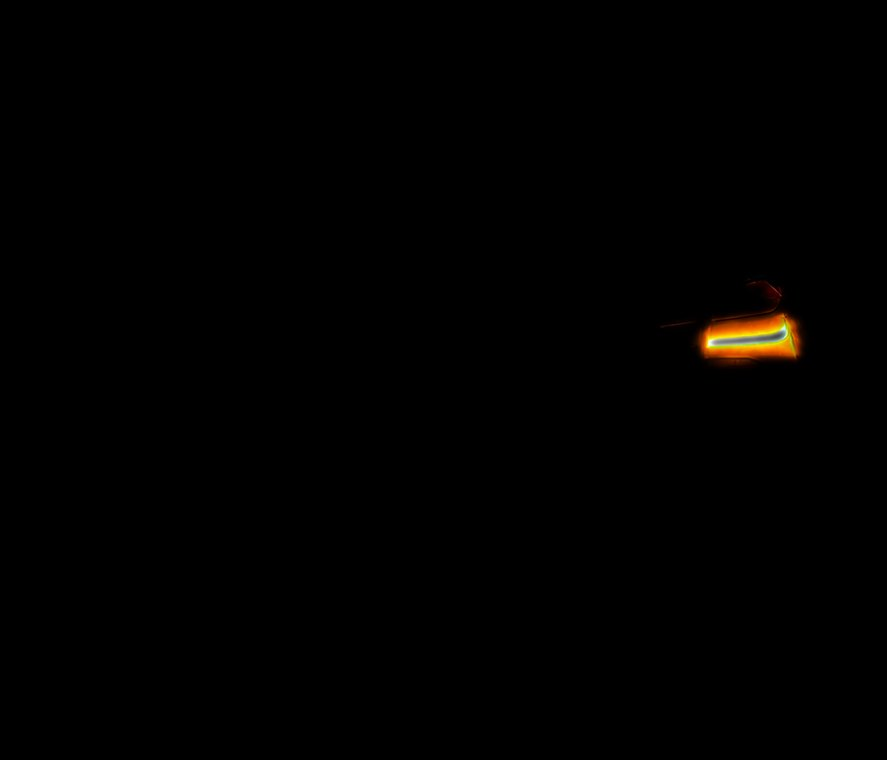
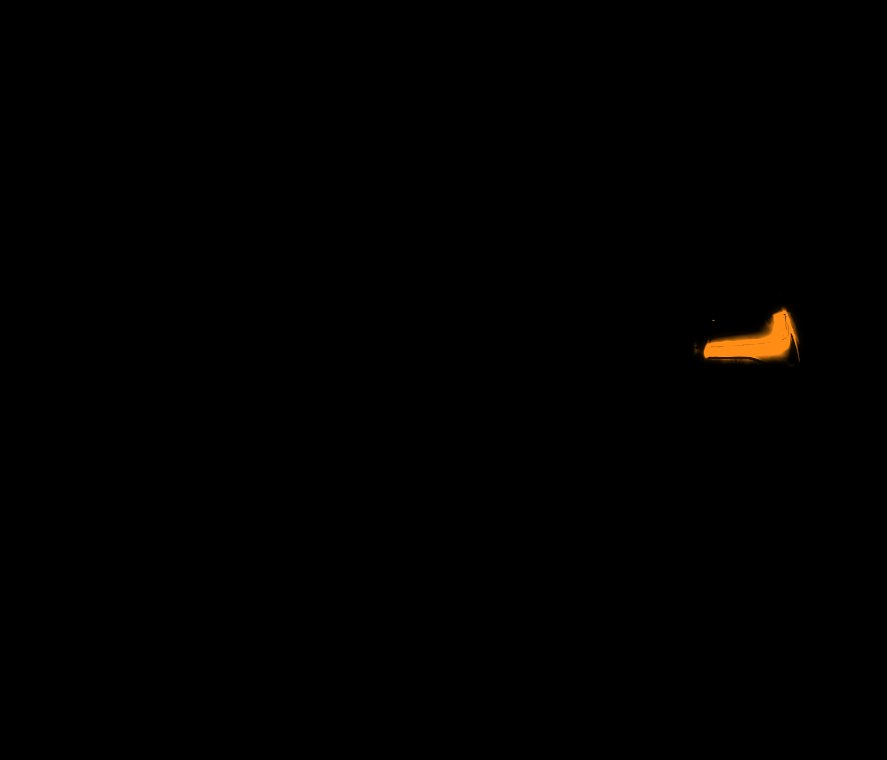
Clignotants, warning, recul et intérieur mieux intégrés

Changed region(s): [[0.761, 0.3632, 0.9132, 0.4842]]

diff --git a/index.html b/index.html
@@ -5,7 +5,7 @@
 <h1>Tes feux d'origine,<br>ton light show.</h1>
 <p class="lead">Pilote les feux de ta BMW série F depuis ton iPhone ou ton Apple Watch, compose des shows et laisse-les danser sur ta musique. Sans modifier le codage.</p>
 <span class="cta big off">Bientôt sur l'App Store</span><div class="soon">iPhone · Apple Watch · gratuit</div>
-<div class="demo"><div class="stage"><div class="car" role="img" aria-label="Voiture vue de face"><img class="base" src="assets/car/photo-front-off.webp?v=a5b0f169" alt=""><img class="lamp" data-id="f:drl-screenLeft" src="assets/car/photo-front-drl-screenLeft.jpg?v=72bc1099" alt="" decoding="async"><img class="lamp" data-id="f:drl-screenRight" src="assets/car/photo-front-drl-screenRight.jpg?v=9e6c1c24" alt="" decoding="async"><img class="lamp" data-id="f:low-screenLeft" src="assets/car/photo-front-low-screenLeft.jpg?v=83283237" alt="" decoding="async"><img class="lamp" data-id="f:low-screenRight" src="assets/car/photo-front-low-screenRight.jpg?v=8a095258" alt="" decoding="async"><img class="lamp" data-id="f:high-screenLeft" src="assets/car/photo-front-high-screenLeft.jpg?v=64660b8b" alt="" decoding="async"><img class="lamp" data-id="f:high-screenRight" src="assets/car/photo-front-high-screenRight.jpg?v=4de06d04" alt="" decoding="async"><img class="lamp" data-id="f:fog-screenLeft" src="assets/car/photo-front-fog-screenLeft.jpg?v=b853a492" alt="" decoding="async"><img class="lamp" data-id="f:fog-screenRight" src="assets/car/photo-front-fog-screenRight.jpg?v=548866b0" alt="" decoding="async"><img class="lamp" data-id="f:indicator-screenLeft" src="assets/car/photo-front-indicator-screenLeft.jpg?v=9acfd933" alt="" decoding="async"><img class="lamp" data-id="f:indicator-screenRight" src="assets/car/photo-front-indicator-screenRight.jpg?v=165abdf5" alt="" decoding="async"><img class="lamp" data-id="f:interior" src="assets/car/photo-front-interior.jpg?v=b5b0edce" alt="" decoding="async"></div><div class="car" role="img" aria-label="Voiture vue de dos"><img class="base" src="assets/car/photo-rear-off.webp?v=ff8c7cd8" alt=""><img class="lamp" data-id="r:tail-screenLeft" src="assets/car/photo-rear-tail-screenLeft.jpg?v=e7f3bf3d" alt="" decoding="async"><img class="lamp" data-id="r:tail-screenRight" src="assets/car/photo-rear-tail-screenRight.jpg?v=f12be747" alt="" decoding="async"><img class="lamp" data-id="r:indicator-screenLeft" src="assets/car/photo-rear-indicator-screenLeft.jpg?v=14cddb7d" alt="" decoding="async"><img class="lamp" data-id="r:indicator-screenRight" src="assets/car/photo-rear-indicator-screenRight.jpg?v=b0662880" alt="" decoding="async"><img class="lamp" data-id="r:reverse-screenLeft" src="assets/car/photo-rear-reverse-screenLeft.jpg?v=d0878755" alt="" decoding="async"><img class="lamp" data-id="r:reverse-screenRight" src="assets/car/photo-rear-reverse-screenRight.jpg?v=23de72f7" alt="" decoding="async"><img class="lamp" data-id="r:brake" src="assets/car/photo-rear-brake.jpg?v=8d4208c7" alt="" decoding="async"><img class="lamp" data-id="r:fog" src="assets/car/photo-rear-fog.jpg?v=1d9a133c" alt="" decoding="async"><img class="lamp" data-id="r:interior" src="assets/car/photo-rear-interior.jpg?v=e815d283" alt="" decoding="async"></div><canvas class="fx" aria-hidden="true"></canvas></div><div class="pads"><button class="pbtn" data-l="drl" style="--c:#ffd60a" aria-pressed="false"><span class="pp"><svg viewBox="0 0 32 32" width="26" height="26" fill="none" stroke="currentColor" stroke-width="2.4" stroke-linecap="round" stroke-linejoin="round"><path d="M19 6c5.5 0 9 4.5 9 10s-3.5 10-9 10z" fill="currentColor"/><path d="M14 8.5 9.5 6M14 13 8.5 12M14 19 8.5 20M14 23.5 9.5 26"/></svg></span><span class="pl">Feux de jour</span></button><button class="pbtn" data-l="low" style="--c:#0a84ff" aria-pressed="false"><span class="pp"><svg viewBox="0 0 32 32" width="26" height="26" fill="none" stroke="currentColor" stroke-width="2.4" stroke-linecap="round" stroke-linejoin="round"><path d="M19 6c5.5 0 9 4.5 9 10s-3.5 10-9 10z" fill="currentColor"/><path d="M14 9 5 12M14 14.5 5 17.5M14 20 5 23"/></svg></span><span class="pl">Croisement</span></button><button class="pbtn" data-l="high" style="--c:#0a84ff" aria-pressed="false"><span class="pp"><svg viewBox="0 0 32 32" width="26" height="26" fill="none" stroke="currentColor" stroke-width="2.4" stroke-linecap="round" stroke-linejoin="round"><path d="M19 6c5.5 0 9 4.5 9 10s-3.5 10-9 10z" fill="currentColor"/><path d="M14 10H4M14 16H4M14 22H4"/></svg></span><span class="pl">Route</span></button><button class="pbtn" data-l="fog" style="--c:#ffd60a" aria-pressed="false"><span class="pp"><svg viewBox="0 0 32 32" width="26" height="26" fill="none" stroke="currentColor" stroke-width="2.4" stroke-linecap="round" stroke-linejoin="round"><path d="M19 6c5.5 0 9 4.5 9 10s-3.5 10-9 10z" fill="currentColor"/><path d="M14 10 4 12M14 16 4 18M14 22 4 24"/><path d="M9.5 6q2.5 3 0 6t0 6 0 6 0 6" stroke-width="2"/></svg></span><span class="pl">Antibrouillard</span></button><button class="pbtn" data-l="indL" style="--c:#ff9f0a" aria-pressed="false"><span class="pp"><svg viewBox="0 0 32 32" width="26" height="26" fill="none" stroke="currentColor" stroke-width="2.4" stroke-linecap="round" stroke-linejoin="round"><path d="M4 16 14 6v6h14v8H14v6z" fill="currentColor"/></svg></span><span class="pl">Clignotant G</span></button><button class="pbtn" data-l="indR" style="--c:#ff9f0a" aria-pressed="false"><span class="pp"><span style="display:inline-flex;transform:scaleX(-1)"><svg viewBox="0 0 32 32" width="26" height="26" fill="none" stroke="currentColor" stroke-width="2.4" stroke-linecap="round" stroke-linejoin="round"><path d="M4 16 14 6v6h14v8H14v6z" fill="currentColor"/></svg></span></span><span class="pl">Clignotant D</span></button><button class="pbtn" data-l="hazard" style="--c:#ff9f0a" aria-pressed="false"><span class="pp"><svg viewBox="0 0 32 32" width="26" height="26" fill="none" stroke="currentColor" stroke-width="2.4" stroke-linecap="round" stroke-linejoin="round"><path d="M16 3.5 29 27H3z"/><path d="M16 12.5 22.2 23H9.8z"/></svg></span><span class="pl">Warning</span></button><button class="pbtn" data-l="tail" style="--c:#ff453a" aria-pressed="false"><span class="pp"><svg viewBox="0 0 32 32" width="26" height="26" fill="none" stroke="currentColor" stroke-width="2.4" stroke-linecap="round" stroke-linejoin="round"><rect x="4" y="10" width="24" height="12" rx="4"/><rect x="8" y="14" width="16" height="4" rx="2" fill="currentColor"/></svg></span><span class="pl">Feux arrière</span></button><button class="pbtn" data-l="brake" style="--c:#ff453a" aria-pressed="false"><span class="pp"><svg viewBox="0 0 32 32" width="26" height="26" fill="none" stroke="currentColor" stroke-width="2.4" stroke-linecap="round" stroke-linejoin="round"><rect x="4" y="11" width="24" height="12" rx="4" fill="currentColor"/><path d="M9 6.5 7.5 4M16 6V3M23 6.5 24.5 4"/></svg></span><span class="pl">Stop</span></button><button class="pbtn" data-l="reverse" style="--c:#aeaeb2" aria-pressed="false"><span class="pp"><svg viewBox="0 0 32 32" width="26" height="26" fill="none" stroke="currentColor" stroke-width="2.4" stroke-linecap="round" stroke-linejoin="round"><rect x="5" y="5" width="22" height="22" rx="6"/><path d="M12.5 22.5v-13h5a3.8 3.8 0 0 1 0 7.6h-5M17.5 17l3.5 5.5" stroke-width="2.6"/></svg></span><span class="pl">Recul</span></button><button class="pbtn" data-l="inside" style="--c:#bfd9ff" aria-pressed="false"><span class="pp"><svg viewBox="0 0 32 32" width="26" height="26" fill="none" stroke="currentColor" stroke-width="2.4" stroke-linecap="round" stroke-linejoin="round"><path d="M5 9h22"/><path d="M9 9.5h14a7 7 0 0 1-14 0z" fill="currentColor"/><path d="M16 21v5M10 19.5l-2.5 4M22 19.5l2.5 4"/></svg></span><span class="pl">Intérieur</span></button><div class="showrow"><div class="sh">Shows</div><div class="shpads"><button class="pbtn" data-show="pulsation" style="--c:#ff9f0a" aria-pressed="false"><span class="pp"><svg viewBox="0 0 32 32" width="28" height="28" fill="none" stroke="currentColor" stroke-width="2.4" stroke-linecap="round" stroke-linejoin="round"><path d="M3 16h6l3-7 4.5 15 3.5-10 2 2h7"/></svg></span><span class="pl">Pulsation</span></button><button class="pbtn" data-show="double" style="--c:#0a84ff" aria-pressed="false"><span class="pp"><svg viewBox="0 0 32 32" width="28" height="28" fill="none" stroke="currentColor" stroke-width="2.4" stroke-linecap="round" stroke-linejoin="round"><path d="M11 7l-5 9h4.5l-1.5 7 5.5-9.5h-4.5z" fill="currentColor"/><path d="M21 7l-5 9h4.5l-1.5 7 5.5-9.5h-4.5z" fill="currentColor"/></svg></span><span class="pl">Double flash</span></button><button class="pbtn" data-show="bienvenue" style="--c:#30d158" aria-pressed="false"><span class="pp"><svg viewBox="0 0 32 32" width="28" height="28" fill="none" stroke="currentColor" stroke-width="2.4" stroke-linecap="round" stroke-linejoin="round"><path d="M5 22v-6l3-6h16l3 6v6z"/><circle cx="10" cy="17" r="2" fill="currentColor"/><circle cx="22" cy="17" r="2" fill="currentColor"/><path d="M6.5 22v3M25.5 22v3M16 2v3M10 4l1.5 2M22 4l-1.5 2"/></svg></span><span class="pl">Bienvenue</span></button><button class="pbtn" data-show="hante" data-theme-only="halloween" style="--c:#ff7a00" aria-pressed="false" hidden><span class="pp"><svg viewBox="0 0 32 32" width="28" height="28" fill="none" stroke="currentColor" stroke-width="2.4" stroke-linejoin="round"><path d="M7 28V14a9 9 0 0 1 18 0v14l-3-2.5-3 2.5-3-2.5-3 2.5-3-2.5z" fill="currentColor" fill-opacity=".25"/><circle cx="12.5" cy="14" r="1.8" fill="currentColor"/><circle cx="19.5" cy="14" r="1.8" fill="currentColor"/></svg></span><span class="pl">Hanté</span></button><button class="pbtn" data-show="guirlande" data-theme-only="noel" style="--c:#ff453a" aria-pressed="false" hidden><span class="pp"><svg viewBox="0 0 32 32" width="28" height="28" fill="currentColor"><path d="M16 3l2.6 7.4L26 13l-7.4 2.6L16 23l-2.6-7.4L6 13l7.4-2.6z"/><path d="M25 19l1.2 3.3 3.3 1.2-3.3 1.2L25 28l-1.2-3.3-3.3-1.2 3.3-1.2z"/><path d="M7 20l.9 2.4 2.4.9-2.4.9L7 26.6l-.9-2.4-2.4-.9 2.4-.9z"/></svg></span><span class="pl">Guirlande</span></button><button class="pbtn" data-show="ruban" data-theme-only="octobre-rose" style="--c:#ff3796" aria-pressed="false" hidden><span class="pp"><svg viewBox="0 0 32 32" width="28" height="28" fill="none" stroke="currentColor" stroke-width="2.6" stroke-linecap="round" stroke-linejoin="round"><path d="M12 29l7-12c2-3.5 2.5-6 1-8.5a4.6 4.6 0 0 0-8 0c-1.5 2.5-1 5 1 8.5l7 12"/></svg></span><span class="pl">Ruban</span></button><button class="pbtn" data-show="printemps" data-theme-only="paques" style="--c:#ff96be" aria-pressed="false" hidden><span class="pp"><svg viewBox="0 0 32 32" width="28" height="28" fill="currentColor"><ellipse cx="16" cy="9.5" rx="4.2" ry="6" transform="rotate(0 16 16)"/><ellipse cx="16" cy="9.5" rx="4.2" ry="6" transform="rotate(72 16 16)"/><ellipse cx="16" cy="9.5" rx="4.2" ry="6" transform="rotate(144 16 16)"/><ellipse cx="16" cy="9.5" rx="4.2" ry="6" transform="rotate(216 16 16)"/><ellipse cx="16" cy="9.5" rx="4.2" ry="6" transform="rotate(288 16 16)"/><circle cx="16" cy="16" r="3.2" fill="#1c1c1e"/></svg></span><span class="pl">Printemps</span></button><button class="pbtn" data-show="compte" data-theme-only="nouvel-an" style="--c:#ffc43c" aria-pressed="false" hidden><span class="pp"><svg viewBox="0 0 32 32" width="28" height="28" fill="none" stroke="currentColor" stroke-width="2.4" stroke-linecap="round"><circle cx="16" cy="17" r="11"/><path d="M16 11v6l4 3M13 3h6"/><path d="M26 7l2-2"/></svg></span><span class="pl">Compte à rebours</span></button></div><button class="pbtn showbtn" data-show="mix" style="--c:#bf5af2" aria-pressed="false"><span class="pp"><svg viewBox="0 0 32 32" width="22" height="22" fill="none" stroke="currentColor" stroke-width="2.4" stroke-linecap="round" stroke-linejoin="round"><path d="M3 16h6l3-7 4.5 15 3.5-10 2 2h7"/></svg></span><span class="pl">Lancer un show</span></button><div class="shmore">+ 10 autres shows dans l'app, et ils suivent ta musique.</div></div></div><div class="hint">Touche une pastille : les feux s'allument comme dans l'app.</div></div></div></div>
+<div class="demo"><div class="stage"><div class="car" role="img" aria-label="Voiture vue de face"><img class="base" src="assets/car/photo-front-off.webp?v=a5b0f169" alt=""><img class="lamp" data-id="f:drl-screenLeft" src="assets/car/photo-front-drl-screenLeft.jpg?v=72bc1099" alt="" decoding="async"><img class="lamp" data-id="f:drl-screenRight" src="assets/car/photo-front-drl-screenRight.jpg?v=9e6c1c24" alt="" decoding="async"><img class="lamp" data-id="f:low-screenLeft" src="assets/car/photo-front-low-screenLeft.jpg?v=83283237" alt="" decoding="async"><img class="lamp" data-id="f:low-screenRight" src="assets/car/photo-front-low-screenRight.jpg?v=8a095258" alt="" decoding="async"><img class="lamp" data-id="f:high-screenLeft" src="assets/car/photo-front-high-screenLeft.jpg?v=64660b8b" alt="" decoding="async"><img class="lamp" data-id="f:high-screenRight" src="assets/car/photo-front-high-screenRight.jpg?v=4de06d04" alt="" decoding="async"><img class="lamp" data-id="f:fog-screenLeft" src="assets/car/photo-front-fog-screenLeft.jpg?v=b853a492" alt="" decoding="async"><img class="lamp" data-id="f:fog-screenRight" src="assets/car/photo-front-fog-screenRight.jpg?v=548866b0" alt="" decoding="async"><img class="lamp" data-id="f:indicator-screenLeft" src="assets/car/photo-front-indicator-screenLeft.jpg?v=72b0d146" alt="" decoding="async"><img class="lamp" data-id="f:indicator-screenRight" src="assets/car/photo-front-indicator-screenRight.jpg?v=b08e6cd4" alt="" decoding="async"><img class="lamp" data-id="f:interior" src="assets/car/photo-front-interior.jpg?v=55bd01a7" alt="" decoding="async"></div><div class="car" role="img" aria-label="Voiture vue de dos"><img class="base" src="assets/car/photo-rear-off.webp?v=ff8c7cd8" alt=""><img class="lamp" data-id="r:tail-screenLeft" src="assets/car/photo-rear-tail-screenLeft.jpg?v=e7f3bf3d" alt="" decoding="async"><img class="lamp" data-id="r:tail-screenRight" src="assets/car/photo-rear-tail-screenRight.jpg?v=f12be747" alt="" decoding="async"><img class="lamp" data-id="r:indicator-screenLeft" src="assets/car/photo-rear-indicator-screenLeft.jpg?v=801bcd83" alt="" decoding="async"><img class="lamp" data-id="r:indicator-screenRight" src="assets/car/photo-rear-indicator-screenRight.jpg?v=35f259fb" alt="" decoding="async"><img class="lamp" data-id="r:reverse-screenLeft" src="assets/car/photo-rear-reverse-screenLeft.jpg?v=c3c540be" alt="" decoding="async"><img class="lamp" data-id="r:reverse-screenRight" src="assets/car/photo-rear-reverse-screenRight.jpg?v=d636bf31" alt="" decoding="async"><img class="lamp" data-id="r:brake" src="assets/car/photo-rear-brake.jpg?v=8d4208c7" alt="" decoding="async"><img class="lamp" data-id="r:fog" src="assets/car/photo-rear-fog.jpg?v=1d9a133c" alt="" decoding="async"><img class="lamp" data-id="r:interior" src="assets/car/photo-rear-interior.jpg?v=846085b4" alt="" decoding="async"></div><canvas class="fx" aria-hidden="true"></canvas></div><div class="pads"><button class="pbtn" data-l="drl" style="--c:#ffd60a" aria-pressed="false"><span class="pp"><svg viewBox="0 0 32 32" width="26" height="26" fill="none" stroke="currentColor" stroke-width="2.4" stroke-linecap="round" stroke-linejoin="round"><path d="M19 6c5.5 0 9 4.5 9 10s-3.5 10-9 10z" fill="currentColor"/><path d="M14 8.5 9.5 6M14 13 8.5 12M14 19 8.5 20M14 23.5 9.5 26"/></svg></span><span class="pl">Feux de jour</span></button><button class="pbtn" data-l="low" style="--c:#0a84ff" aria-pressed="false"><span class="pp"><svg viewBox="0 0 32 32" width="26" height="26" fill="none" stroke="currentColor" stroke-width="2.4" stroke-linecap="round" stroke-linejoin="round"><path d="M19 6c5.5 0 9 4.5 9 10s-3.5 10-9 10z" fill="currentColor"/><path d="M14 9 5 12M14 14.5 5 17.5M14 20 5 23"/></svg></span><span class="pl">Croisement</span></button><button class="pbtn" data-l="high" style="--c:#0a84ff" aria-pressed="false"><span class="pp"><svg viewBox="0 0 32 32" width="26" height="26" fill="none" stroke="currentColor" stroke-width="2.4" stroke-linecap="round" stroke-linejoin="round"><path d="M19 6c5.5 0 9 4.5 9 10s-3.5 10-9 10z" fill="currentColor"/><path d="M14 10H4M14 16H4M14 22H4"/></svg></span><span class="pl">Route</span></button><button class="pbtn" data-l="fog" style="--c:#ffd60a" aria-pressed="false"><span class="pp"><svg viewBox="0 0 32 32" width="26" height="26" fill="none" stroke="currentColor" stroke-width="2.4" stroke-linecap="round" stroke-linejoin="round"><path d="M19 6c5.5 0 9 4.5 9 10s-3.5 10-9 10z" fill="currentColor"/><path d="M14 10 4 12M14 16 4 18M14 22 4 24"/><path d="M9.5 6q2.5 3 0 6t0 6 0 6 0 6" stroke-width="2"/></svg></span><span class="pl">Antibrouillard</span></button><button class="pbtn" data-l="indL" style="--c:#ff9f0a" aria-pressed="false"><span class="pp"><svg viewBox="0 0 32 32" width="26" height="26" fill="none" stroke="currentColor" stroke-width="2.4" stroke-linecap="round" stroke-linejoin="round"><path d="M4 16 14 6v6h14v8H14v6z" fill="currentColor"/></svg></span><span class="pl">Clignotant G</span></button><button class="pbtn" data-l="indR" style="--c:#ff9f0a" aria-pressed="false"><span class="pp"><span style="display:inline-flex;transform:scaleX(-1)"><svg viewBox="0 0 32 32" width="26" height="26" fill="none" stroke="currentColor" stroke-width="2.4" stroke-linecap="round" stroke-linejoin="round"><path d="M4 16 14 6v6h14v8H14v6z" fill="currentColor"/></svg></span></span><span class="pl">Clignotant D</span></button><button class="pbtn" data-l="hazard" style="--c:#ff9f0a" aria-pressed="false"><span class="pp"><svg viewBox="0 0 32 32" width="26" height="26" fill="none" stroke="currentColor" stroke-width="2.4" stroke-linecap="round" stroke-linejoin="round"><path d="M16 3.5 29 27H3z"/><path d="M16 12.5 22.2 23H9.8z"/></svg></span><span class="pl">Warning</span></button><button class="pbtn" data-l="tail" style="--c:#ff453a" aria-pressed="false"><span class="pp"><svg viewBox="0 0 32 32" width="26" height="26" fill="none" stroke="currentColor" stroke-width="2.4" stroke-linecap="round" stroke-linejoin="round"><rect x="4" y="10" width="24" height="12" rx="4"/><rect x="8" y="14" width="16" height="4" rx="2" fill="currentColor"/></svg></span><span class="pl">Feux arrière</span></button><button class="pbtn" data-l="brake" style="--c:#ff453a" aria-pressed="false"><span class="pp"><svg viewBox="0 0 32 32" width="26" height="26" fill="none" stroke="currentColor" stroke-width="2.4" stroke-linecap="round" stroke-linejoin="round"><rect x="4" y="11" width="24" height="12" rx="4" fill="currentColor"/><path d="M9 6.5 7.5 4M16 6V3M23 6.5 24.5 4"/></svg></span><span class="pl">Stop</span></button><button class="pbtn" data-l="reverse" style="--c:#aeaeb2" aria-pressed="false"><span class="pp"><svg viewBox="0 0 32 32" width="26" height="26" fill="none" stroke="currentColor" stroke-width="2.4" stroke-linecap="round" stroke-linejoin="round"><rect x="5" y="5" width="22" height="22" rx="6"/><path d="M12.5 22.5v-13h5a3.8 3.8 0 0 1 0 7.6h-5M17.5 17l3.5 5.5" stroke-width="2.6"/></svg></span><span class="pl">Recul</span></button><button class="pbtn" data-l="inside" style="--c:#bfd9ff" aria-pressed="false"><span class="pp"><svg viewBox="0 0 32 32" width="26" height="26" fill="none" stroke="currentColor" stroke-width="2.4" stroke-linecap="round" stroke-linejoin="round"><path d="M5 9h22"/><path d="M9 9.5h14a7 7 0 0 1-14 0z" fill="currentColor"/><path d="M16 21v5M10 19.5l-2.5 4M22 19.5l2.5 4"/></svg></span><span class="pl">Intérieur</span></button><div class="showrow"><div class="sh">Shows</div><div class="shpads"><button class="pbtn" data-show="pulsation" style="--c:#ff9f0a" aria-pressed="false"><span class="pp"><svg viewBox="0 0 32 32" width="28" height="28" fill="none" stroke="currentColor" stroke-width="2.4" stroke-linecap="round" stroke-linejoin="round"><path d="M3 16h6l3-7 4.5 15 3.5-10 2 2h7"/></svg></span><span class="pl">Pulsation</span></button><button class="pbtn" data-show="double" style="--c:#0a84ff" aria-pressed="false"><span class="pp"><svg viewBox="0 0 32 32" width="28" height="28" fill="none" stroke="currentColor" stroke-width="2.4" stroke-linecap="round" stroke-linejoin="round"><path d="M11 7l-5 9h4.5l-1.5 7 5.5-9.5h-4.5z" fill="currentColor"/><path d="M21 7l-5 9h4.5l-1.5 7 5.5-9.5h-4.5z" fill="currentColor"/></svg></span><span class="pl">Double flash</span></button><button class="pbtn" data-show="bienvenue" style="--c:#30d158" aria-pressed="false"><span class="pp"><svg viewBox="0 0 32 32" width="28" height="28" fill="none" stroke="currentColor" stroke-width="2.4" stroke-linecap="round" stroke-linejoin="round"><path d="M5 22v-6l3-6h16l3 6v6z"/><circle cx="10" cy="17" r="2" fill="currentColor"/><circle cx="22" cy="17" r="2" fill="currentColor"/><path d="M6.5 22v3M25.5 22v3M16 2v3M10 4l1.5 2M22 4l-1.5 2"/></svg></span><span class="pl">Bienvenue</span></button><button class="pbtn" data-show="hante" data-theme-only="halloween" style="--c:#ff7a00" aria-pressed="false" hidden><span class="pp"><svg viewBox="0 0 32 32" width="28" height="28" fill="none" stroke="currentColor" stroke-width="2.4" stroke-linejoin="round"><path d="M7 28V14a9 9 0 0 1 18 0v14l-3-2.5-3 2.5-3-2.5-3 2.5-3-2.5z" fill="currentColor" fill-opacity=".25"/><circle cx="12.5" cy="14" r="1.8" fill="currentColor"/><circle cx="19.5" cy="14" r="1.8" fill="currentColor"/></svg></span><span class="pl">Hanté</span></button><button class="pbtn" data-show="guirlande" data-theme-only="noel" style="--c:#ff453a" aria-pressed="false" hidden><span class="pp"><svg viewBox="0 0 32 32" width="28" height="28" fill="currentColor"><path d="M16 3l2.6 7.4L26 13l-7.4 2.6L16 23l-2.6-7.4L6 13l7.4-2.6z"/><path d="M25 19l1.2 3.3 3.3 1.2-3.3 1.2L25 28l-1.2-3.3-3.3-1.2 3.3-1.2z"/><path d="M7 20l.9 2.4 2.4.9-2.4.9L7 26.6l-.9-2.4-2.4-.9 2.4-.9z"/></svg></span><span class="pl">Guirlande</span></button><button class="pbtn" data-show="ruban" data-theme-only="octobre-rose" style="--c:#ff3796" aria-pressed="false" hidden><span class="pp"><svg viewBox="0 0 32 32" width="28" height="28" fill="none" stroke="currentColor" stroke-width="2.6" stroke-linecap="round" stroke-linejoin="round"><path d="M12 29l7-12c2-3.5 2.5-6 1-8.5a4.6 4.6 0 0 0-8 0c-1.5 2.5-1 5 1 8.5l7 12"/></svg></span><span class="pl">Ruban</span></button><button class="pbtn" data-show="printemps" data-theme-only="paques" style="--c:#ff96be" aria-pressed="false" hidden><span class="pp"><svg viewBox="0 0 32 32" width="28" height="28" fill="currentColor"><ellipse cx="16" cy="9.5" rx="4.2" ry="6" transform="rotate(0 16 16)"/><ellipse cx="16" cy="9.5" rx="4.2" ry="6" transform="rotate(72 16 16)"/><ellipse cx="16" cy="9.5" rx="4.2" ry="6" transform="rotate(144 16 16)"/><ellipse cx="16" cy="9.5" rx="4.2" ry="6" transform="rotate(216 16 16)"/><ellipse cx="16" cy="9.5" rx="4.2" ry="6" transform="rotate(288 16 16)"/><circle cx="16" cy="16" r="3.2" fill="#1c1c1e"/></svg></span><span class="pl">Printemps</span></button><button class="pbtn" data-show="compte" data-theme-only="nouvel-an" style="--c:#ffc43c" aria-pressed="false" hidden><span class="pp"><svg viewBox="0 0 32 32" width="28" height="28" fill="none" stroke="currentColor" stroke-width="2.4" stroke-linecap="round"><circle cx="16" cy="17" r="11"/><path d="M16 11v6l4 3M13 3h6"/><path d="M26 7l2-2"/></svg></span><span class="pl">Compte à rebours</span></button></div><button class="pbtn showbtn" data-show="mix" style="--c:#bf5af2" aria-pressed="false"><span class="pp"><svg viewBox="0 0 32 32" width="22" height="22" fill="none" stroke="currentColor" stroke-width="2.4" stroke-linecap="round" stroke-linejoin="round"><path d="M3 16h6l3-7 4.5 15 3.5-10 2 2h7"/></svg></span><span class="pl">Lancer un show</span></button><div class="shmore">+ 10 autres shows dans l'app, et ils suivent ta musique.</div></div></div><div class="hint">Touche une pastille : les feux s'allument comme dans l'app.</div></div></div></div>
 <section><div class="wrap"><h2>Tes feux, ton style.</h2><p class="sub">Pensée pour les passionnés, faite pour briller la nuit.</p><div class="features"><div class="feat"><div class="past" style="width:60px;height:60px;color:#0a84ff;background:radial-gradient(120% 120% at 30% 15%, #0a84ff66, var(--pb) 75%);box-shadow:0 0 0 1.5px #0a84ffb3 inset,0 6px 22px -4px #0a84ff99"><div style="display:flex;filter:drop-shadow(0 0 6px #0a84ff)"><svg viewBox="0 0 32 32" width="30" height="30" fill="none" stroke="#0a84ff" stroke-width="2.4" stroke-linecap="round" stroke-linejoin="round"><path d="M19 6c5.5 0 9 4.5 9 10s-3.5 10-9 10z" fill="#0a84ff"/><path d="M14 9 5 12M14 14.5 5 17.5M14 20 5 23"/></svg></div></div><h3>Tes feux, en direct</h3><p>Croisement, route, antibrouillards, stop, recul, et même l'éclairage intérieur. Touche une pastille, le feu s'allume. Mode « Maintenir » à plusieurs doigts.</p></div><div class="feat"><div class="past" style="width:60px;height:60px;color:#ff375f;background:radial-gradient(120% 120% at 30% 15%, #ff375f66, var(--pb) 75%);box-shadow:0 0 0 1.5px #ff375fb3 inset,0 6px 22px -4px #ff375f99"><div style="display:flex;filter:drop-shadow(0 0 6px #ff375f)"><svg viewBox="0 0 32 32" width="28" height="28" stroke="#ff375f" stroke-width="2.6" stroke-linecap="round"><path d="M4 13v6M9 9v14M14 5v22M19 10v12M24 7v18M28.5 13v6"/></svg></div></div><h3>Show Libre</h3><p>Pas de séquence : chaque feu réagit à ta musique. Les basses font battre les feux arrière, la voix le croisement, et au drop toute la voiture s'embrase. Calme, normal ou déchaîné.</p></div><div class="feat"><div class="past" style="width:60px;height:60px;color:#ff9f0a;background:radial-gradient(120% 120% at 30% 15%, #ff9f0a66, var(--pb) 75%);box-shadow:0 0 0 1.5px #ff9f0ab3 inset,0 6px 22px -4px #ff9f0a99"><div style="display:flex;filter:drop-shadow(0 0 6px #ff9f0a)"><svg viewBox="0 0 32 32" width="30" height="30" fill="none" stroke="#ff9f0a" stroke-width="2.4" stroke-linecap="round" stroke-linejoin="round"><path d="M3 16h6l3-7 4.5 15 3.5-10 2 2h7"/></svg></div></div><h3>17 shows prêts</h3><p>Pulsation, double flash, gyrophare, vague, bienvenue… À suivre au tempo ou sur ta musique, au micro. Et des shows spéciaux pour Halloween et Noël.</p></div><div class="feat"><div class="past" style="width:60px;height:60px;color:#bf5af2;background:radial-gradient(120% 120% at 30% 15%, #bf5af266, var(--pb) 75%);box-shadow:0 0 0 1.5px #bf5af2b3 inset,0 6px 22px -4px #bf5af299"><div style="display:flex;filter:drop-shadow(0 0 6px #bf5af2)"><svg viewBox="0 0 32 32" width="28" height="28" fill="#bf5af2"><rect x="4" y="5" width="6" height="6" rx="1.5"/><rect x="13" y="5" width="6" height="6" rx="1.5" opacity=.35/><rect x="22" y="5" width="6" height="6" rx="1.5"/><rect x="4" y="14" width="6" height="6" rx="1.5" opacity=.35/><rect x="13" y="14" width="6" height="6" rx="1.5"/><rect x="22" y="14" width="6" height="6" rx="1.5" opacity=.35/><rect x="4" y="23" width="6" height="6" rx="1.5"/><rect x="13" y="23" width="6" height="6" rx="1.5" opacity=.35/><rect x="22" y="23" width="6" height="6" rx="1.5"/></svg></div></div><h3>Crée tes shows</h3><p>Une grille feux × pas pour composer tes séquences, ou enregistre en direct ce que tu joues.</p></div><div class="feat"><div class="past" style="width:60px;height:60px;color:#64d2ff;background:radial-gradient(120% 120% at 30% 15%, #64d2ff66, var(--pb) 75%);box-shadow:0 0 0 1.5px #64d2ffb3 inset,0 6px 22px -4px #64d2ff99"><div style="display:flex;filter:drop-shadow(0 0 6px #64d2ff)"><svg viewBox="0 0 32 32" width="28" height="28" fill="none" stroke="#64d2ff" stroke-width="2.4" stroke-linecap="round" stroke-linejoin="round"><rect x="8" y="8" width="16" height="16" rx="5"/><path d="M11 8l1-5h8l1 5M11 24l1 5h8l1-5"/><path d="M16 12.5v4l2.5 1.5"/></svg></div></div><h3>Sur ton Apple Watch</h3><p>Lance le Show Libre, le warning ou un appel de phares depuis ton poignet. La couronne règle l'intensité, Stop toujours sous le doigt.</p></div><div class="feat"><div class="past" style="width:60px;height:60px;color:#ffd60a;background:radial-gradient(120% 120% at 30% 15%, #ffd60a66, var(--pb) 75%);box-shadow:0 0 0 1.5px #ffd60ab3 inset,0 6px 22px -4px #ffd60a99"><div style="display:flex;filter:drop-shadow(0 0 6px #ffd60a)"><svg viewBox="0 0 32 32" width="28" height="28" fill="#ffd60a"><rect x="4" y="4" width="11" height="11" rx="3"/><rect x="17" y="4" width="11" height="11" rx="3" opacity=".45"/><rect x="4" y="17" width="24" height="11" rx="3" opacity=".7"/></svg></div></div><h3>Widgets et écran verrouillé</h3><p>Le Show Libre en un geste depuis l'écran d'accueil ou le Centre de contrôle. Pendant un show, Stop sur l'écran verrouillé et dans la Dynamic Island.</p></div><div class="feat"><div class="past" style="width:60px;height:60px;color:#ffffff;background:radial-gradient(120% 120% at 30% 15%, #ffffff66, var(--pb) 75%);box-shadow:0 0 0 1.5px #ffffffb3 inset,0 6px 22px -4px #ffffff99"><div style="display:flex;filter:drop-shadow(0 0 6px #ffffff)"><svg viewBox="0 0 32 32" width="30" height="30" fill="none" stroke="#ffffff" stroke-width="2.4" stroke-linecap="round" stroke-linejoin="round"><path d="M19 6c5.5 0 9 4.5 9 10s-3.5 10-9 10z" fill="#ffffff"/><path d="M14 8.5 9.5 6M14 13 8.5 12M14 19 8.5 20M14 23.5 9.5 26"/></svg></div></div><h3>Ta voiture à l'écran</h3><p>Vue avant et arrière réalistes qui s'allument feu par feu, en même temps que la vraie.</p></div><div class="feat"><div class="past" style="width:60px;height:60px;color:#30b0c7;background:radial-gradient(120% 120% at 30% 15%, #30b0c766, var(--pb) 75%);box-shadow:0 0 0 1.5px #30b0c7b3 inset,0 6px 22px -4px #30b0c799"><div style="display:flex;filter:drop-shadow(0 0 6px #30b0c7)"><svg viewBox="0 0 32 32" width="30" height="30" fill="none" stroke="#30b0c7" stroke-width="2.4" stroke-linecap="round" stroke-linejoin="round"><path d="M5 22v-6l3-6h16l3 6v6z"/><circle cx="10" cy="17" r="2" fill="#30b0c7"/><circle cx="22" cy="17" r="2" fill="#30b0c7"/><path d="M6.5 22v3M25.5 22v3M16 2v3M10 4l1.5 2M22 4l-1.5 2"/></svg></div></div><h3>Ma voiture</h3><p>Batterie, modules détectés, feux qui répondent. Et un outil qui cherche les codes des feux pas encore pris en charge.</p></div><div class="feat"><div class="past" style="width:60px;height:60px;color:#30d158;background:radial-gradient(120% 120% at 30% 15%, #30d15866, var(--pb) 75%);box-shadow:0 0 0 1.5px #30d158b3 inset,0 6px 22px -4px #30d15899"><div style="display:flex;filter:drop-shadow(0 0 6px #30d158)"><svg viewBox="0 0 32 32" width="28" height="28" fill="none" stroke="#30d158" stroke-width="2.4" stroke-linecap="round" stroke-linejoin="round"><path d="M16 3 27 7v8c0 7-5 12-11 14C10 27 5 22 5 15V7z"/><path d="m11 16 4 4 7-8"/></svg></div></div><h3>Sans risque</h3><p>Aucun codage modifié, commandes temporaires seulement. Le show s'arrête tout seul si la voiture se met à rouler, et la voiture reprend la main.</p></div></div></div></section>
 <section class="band"><div class="wrap"><h2>Pensée pour la nuit.</h2><p class="sub">Les écrans de l'app.</p>
 <div class="shots"><img src="assets/img/06-eclairage.webp?v=0d4fcc84" alt="Écran Éclairage de l&#x27;app, vue avant" width="590" height="1283" loading="lazy"><img src="assets/img/14-shows.webp?v=486334cc" alt="Écran Shows et ses préréglages" width="590" height="1283" loading="lazy"><img src="assets/img/15-lecteur.webp?v=2af81787" alt="Lecteur de show, tempo et tap tempo" width="590" height="1283" loading="lazy"><img src="assets/img/26-ma-voiture.webp?v=670c19ae" alt="Onglet Ma voiture : batterie, feux, outils" width="590" height="1283" loading="lazy"></div></div></section>
@@ -14,4 +14,4 @@
 <section><div class="wrap"><h2>Prêt en 3 étapes.</h2><p class="sub">Il suffit d'un adaptateur OBD Bluetooth.</p>
 <div class="steps"><div><div class="n">1</div><h3>Branche l'adaptateur</h3><p>Sur la prise OBD, sous le volant, contact mis.</p></div>
 <div><div class="n">2</div><h3>Connecte-toi</h3><p>L'app trouve l'adaptateur et vérifie ta voiture, sans rien allumer.</p></div>
-<div><div class="n">3</div><h3>Allume la nuit</h3><p>Pilote tes feux à la main, lance un show ou le Show Libre sur ta musique.</p></div></div></div></section></main><footer><div class="wrap ftop"><div class="fbrand"><img src="assets/img/icone.png?v=67a4bd5c" alt="" width="52" height="52"><div><b>BimmerPulse</b><p>Le light show pour ta BMW, conçu et développé en France.</p></div></div><nav class="fcols" aria-label="Liens du site"><div><h4>L'app</h4><a href="index.html">Accueil</a><a href="compatibilite.html">Compatibilité</a><a href="aide.html">Aide</a></div><div><h4>Légal</h4><a href="legal.html#conditions">Conditions</a><a href="legal.html#confidentialite">Confidentialité</a></div><div class="fcontact"><h4>Contact</h4><a class="fmail" href="mailto:contact@exemple.fr">✉ contact@exemple.fr</a></div></nav></div><div class="wrap fbottom"><span>© 2026 BimmerPulse</span><span>App indépendante, non affiliée à BMW AG.</span></div></footer><script src="assets/nav.js?v=1cb0a129"></script><script src="assets/demo.js?v=805b42cb"></script></body></html>
+<div><div class="n">3</div><h3>Allume la nuit</h3><p>Pilote tes feux à la main, lance un show ou le Show Libre sur ta musique.</p></div></div></div></section></main><footer><div class="wrap ftop"><div class="fbrand"><img src="assets/img/icone.png?v=67a4bd5c" alt="" width="52" height="52"><div><b>BimmerPulse</b><p>Le light show pour ta BMW, conçu et développé en France.</p></div></div><nav class="fcols" aria-label="Liens du site"><div><h4>L'app</h4><a href="index.html">Accueil</a><a href="compatibilite.html">Compatibilité</a><a href="aide.html">Aide</a></div><div><h4>Légal</h4><a href="legal.html#conditions">Conditions</a><a href="legal.html#confidentialite">Confidentialité</a></div><div class="fcontact"><h4>Contact</h4><a class="fmail" href="mailto:contact@exemple.fr">✉ contact@exemple.fr</a></div></nav></div><div class="wrap fbottom"><span>© 2026 BimmerPulse</span><span>App indépendante, non affiliée à BMW AG.</span></div></footer><script src="assets/nav.js?v=1cb0a129"></script><script src="assets/demo.js?v=7698dd7c"></script></body></html>

diff --git a/assets/demo.js b/assets/demo.js
@@ -11,7 +11,7 @@ const THEMES = {
 };
 const THEME = Object.hasOwn(THEMES, document.documentElement.dataset.theme || '') ? document.documentElement.dataset.theme : null;   // choisi par theme.js
 if (THEME) {
-  const dir = 'assets/theme/' + THEME + '/', v = '?v=add2a521';
+  const dir = 'assets/theme/' + THEME + '/', v = '?v=2d380305';
   if (false) document.querySelectorAll('.car').forEach((car, i) => {   // décor de saison autour de la voiture
     const side = i === 0 ? 'front' : 'rear', p = i === 0 ? 'f' : 'r';
     car.querySelector('.base').src = dir + side + '-off.jpg' + v;
